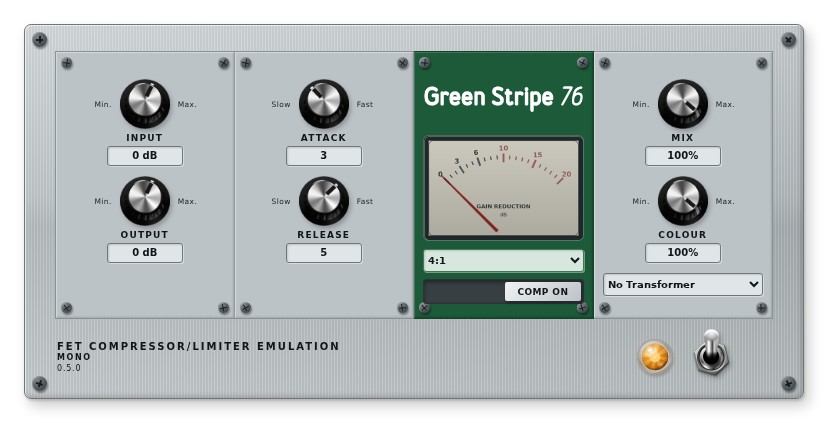
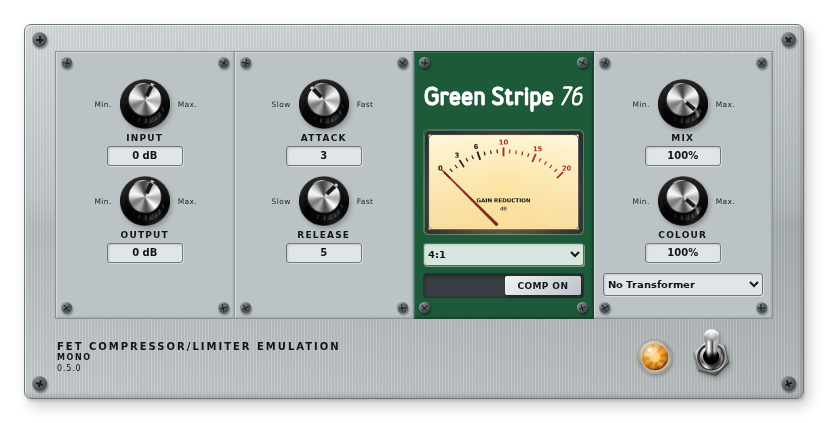
fix: MOD-GUI drag handles and meter layout

Changed region(s): [[0.5133, 0.3073, 0.7246, 0.7376]]

diff --git a/lv2/green-stripe-76.lv2/modgui/green-stripe.css b/lv2/green-stripe-76.lv2/modgui/green-stripe.css
@@ -1,7 +1,7 @@
 /* SPDX-License-Identifier: MIT — Green Stripe 76.
    Joined rack plates; upper-left lighting and independently rotated screw slots.
    Supplied aluminium/toggle filmstrips and scaled pilot SVGs.
-   Draggable: top rail, footer plate and bottom rail. MOD owns control interaction/state. */
+   Draggable: full frame ring and footer plate. MOD owns control interaction/state. */
 .gs76{{{cns}}} { width:780px; box-sizing:border-box; position:relative; color:#10161a; font:13px Arial,Helvetica,sans-serif; padding:26px 30px 8px; border:1px solid #6f7679; border-radius:7px;
   background:linear-gradient(135deg,rgba(255,255,255,.12),rgba(0,0,0,.07)),repeating-linear-gradient(90deg,rgba(255,255,255,.09) 0 1px,rgba(0,0,0,.05) 1px 3px),linear-gradient(180deg,#ced4d7 0%,#bcc3c6 46%,#b0b7ba 54%,#c5cbcd 100%);
   box-shadow:5px 7px 14px rgba(0,0,0,.20),1px 2px 3px rgba(0,0,0,.16),inset 1px 1px 1px rgba(255,255,255,.75),inset -2px -2px 5px rgba(0,0,0,.18); }
@@ -47,7 +47,7 @@
 .gs76{{{cns}}} .gs-body-knobs > .gs-control,.gs76{{{cns}}} .gs-body-knobs > .gs-field { margin:0; }
 .gs76{{{cns}}} .gs-body-knobs > .gs-field { display:flex; }
 /* Engine bay: VU meter on top, ratio and COMP beneath; light from upper left. */
-.gs76{{{cns}}} .gs-body-engine { display:flex; flex-direction:column; align-items:center; justify-content:center; gap:8px; padding-top:64px; }
+.gs76{{{cns}}} .gs-body-engine { display:flex; flex-direction:column; align-items:center; justify-content:center; gap:8px; padding-top:64px; transform:translateY(-6px); }
 .gs76{{{cns}}} .gs-vuwrap { position:relative; width:100%; max-width:172px; height:0; padding-bottom:66.1538%; }
 .gs76{{{cns}}} .gs-vu { position:absolute; inset:0; width:100%; height:100%; display:block; }
 .gs76{{{cns}}} .gs-vu-on { opacity:0; transition:opacity 60ms linear; }
@@ -112,11 +112,11 @@
    30px sides, 8px bottom) without covering bays, footer or the power column;
    the plate makes the footer label draggable as well. */
 .gs76{{{cns}}} .mod-drag-handle.gs-drag { position:absolute; z-index:1; cursor:move; }
-.gs76{{{cns}}} .mod-drag-handle.gs-drag.gs-drag-top { top:0; left:0; right:0; height:26px; }
-.gs76{{{cns}}} .mod-drag-handle.gs-drag.gs-drag-left { top:26px; bottom:9px; left:0; width:30px; height:auto; }
-.gs76{{{cns}}} .mod-drag-handle.gs-drag.gs-drag-right { top:26px; bottom:9px; right:0; width:30px; height:auto; }
+.gs76{{{cns}}} .mod-drag-handle.gs-drag.gs-drag-top { top:0; right:0; bottom:auto; left:0; height:26px; }
+.gs76{{{cns}}} .mod-drag-handle.gs-drag.gs-drag-left { top:26px; right:auto; bottom:9px; left:0; width:30px; height:auto; }
+.gs76{{{cns}}} .mod-drag-handle.gs-drag.gs-drag-right { top:26px; right:0; bottom:9px; left:auto; width:30px; height:auto; }
 .gs76{{{cns}}} .mod-drag-handle.gs-drag.gs-drag-bottom { top:auto; bottom:0; left:0; right:0; height:9px; }
-.gs76{{{cns}}} .gs-plate.gs-drag-foot { cursor:move; touch-action:none; }
+.gs76{{{cns}}} .gs-plate.gs-drag-foot { position:relative; top:auto; right:auto; bottom:auto; left:auto; z-index:auto; cursor:move; touch-action:none; }
 /* Pedalboard zooms on drag-handle clicks (event.target must carry
    mod-drag-handle); children pass clicks through to the plate itself. */
 .gs76{{{cns}}} .gs-plate b, .gs76{{{cns}}} .gs-plate span { pointer-events:none; }

diff --git a/lv2/green-stripe-76.lv2/modgui/icon-mono.html b/lv2/green-stripe-76.lv2/modgui/icon-mono.html
@@ -5,8 +5,8 @@
      Unlabelled bypass beside the amber pilot. Light from upper left.
      Drag handles: full frame ring (top/left/right/bottom rails), footer plate.
      Footer plate carries the variant and the version+revision line.
-     No GR/level meters. -->
-<div class="gs76{{{cns}}}">
+     The ENGINE bay carries the GR VU meter; there are no input meters. -->
+<div class="gs76{{{cns}}} gs76-root">
 <div class="mod-drag-handle gs-drag gs-drag-top" mod-role="drag-handle" title="Paneel verschieben"></div>
 <i class="gs-screw gs-screw-tl" aria-hidden="true"><span class="gs-slot" style="transform:rotate(0deg)"></span></i><i class="gs-screw gs-screw-tr" aria-hidden="true"><span class="gs-slot" style="transform:rotate(45deg)"></span></i><i class="gs-screw gs-screw-bl" aria-hidden="true"><span class="gs-slot" style="transform:rotate(18deg)"></span></i><i class="gs-screw gs-screw-br" aria-hidden="true"><span class="gs-slot" style="transform:rotate(67deg)"></span></i>
 <div class="mod-drag-handle gs-drag gs-drag-left" mod-role="drag-handle" title="Paneel verschieben"></div>

diff --git a/lv2/green-stripe-76.lv2/modgui/icon-stereo.html b/lv2/green-stripe-76.lv2/modgui/icon-stereo.html
@@ -5,8 +5,8 @@
      Unlabelled bypass beside the amber pilot. Light from upper left.
      Drag handles: full frame ring (top/left/right/bottom rails), footer plate.
      Footer plate carries the variant and the version+revision line.
-     No GR/level meters. -->
-<div class="gs76{{{cns}}}">
+     The ENGINE bay carries the GR VU meter; there are no input meters. -->
+<div class="gs76{{{cns}}} gs76-root">
 <div class="mod-drag-handle gs-drag gs-drag-top" mod-role="drag-handle" title="Paneel verschieben"></div>
 <i class="gs-screw gs-screw-tl" aria-hidden="true"><span class="gs-slot" style="transform:rotate(0deg)"></span></i><i class="gs-screw gs-screw-tr" aria-hidden="true"><span class="gs-slot" style="transform:rotate(45deg)"></span></i><i class="gs-screw gs-screw-bl" aria-hidden="true"><span class="gs-slot" style="transform:rotate(18deg)"></span></i><i class="gs-screw gs-screw-br" aria-hidden="true"><span class="gs-slot" style="transform:rotate(67deg)"></span></i>
 <div class="mod-drag-handle gs-drag gs-drag-left" mod-role="drag-handle" title="Paneel verschieben"></div>

diff --git a/lv2/green-stripe-76.lv2/modgui/grmeter.js b/lv2/green-stripe-76.lv2/modgui/grmeter.js
@@ -7,7 +7,7 @@ function (event, funcs) {
     var REST_DEG = -0.0, MAX_DB = 20.0, SWEEP = 90.0;
     function clamp(x, lo, hi) { return x < lo ? lo : (x > hi ? hi : x); }
     function setState(on) {
-        var root = event.icon.find('.gs76');
+        var root = event.icon.find('.gs76-root');
         root.addClass(on ? 'gs-comp-on' : 'gs-comp-off');
         root.removeClass(on ? 'gs-comp-off' : 'gs-comp-on');
     }

diff --git a/tests/test_modgui.py b/tests/test_modgui.py
@@ -18,6 +18,7 @@ def main():
     args = parser.parse_args()
     scripts = args.mod_ui/'html/js'
     source = (scripts/'modgui.js').read_text(encoding='utf-8')
+    grmeter = (ROOT/'lv2/green-stripe-76.lv2/modgui/grmeter.js').read_text(encoding='utf-8')
     # The upstream widget section is self-contained. Use it unchanged, not a
     # reimplementation of its switch/film/bypass state machine.
     widgets = source[source.index('function JqueryClass()'):]
@@ -29,6 +30,13 @@ def main():
             errors = []
             page.on('pageerror', lambda error: errors.append(str(error)))
             page.set_content(page_html(variant), wait_until='load')
+            # Reproduce MOD's global full-panel default for this class. Every
+            # custom handle must override it explicitly; otherwise a footer
+            # handle becomes an invisible overlay across the complete GUI.
+            page.add_style_tag(content='''.mod-pedal .mod-drag-handle {
+              position:absolute; inset:0; z-index:20;
+            }''')
+            page.locator('.gs76-root').evaluate("e => { const wrapper=document.createElement('div'); wrapper.className='mod-pedal'; e.parentNode.insertBefore(wrapper,e); wrapper.appendChild(e); }")
             for name in ('jquery-1.9.1.min.js', 'jquery-ui-1.10.1.custom.min.js', 'jquery.mousewheel.min.js'):
                 page.add_script_tag(path=str(scripts/'lib'/name))
             page.evaluate('window.isSDK=false; window.desktop={pedalboard:{pedalboard:function(){}}};')
@@ -58,6 +66,7 @@ def main():
             for a,b in zip(boxes, boxes[1:]):
                 assert abs(a['x']+a['width']-b['x']) < .01, 'Gap between panels'
             assert page.locator('.gs-brand').evaluate('e => getComputedStyle(e).borderTopWidth') == '0px'
+            assert page.locator('.gs76-root').count() == 1, 'Static JS root hook missing'
             # Engine bay: VU meter between the logo and the ratio/COMP stack;
             # oversampling and stereo link are host-settings-only now.
             assert page.locator('select[mod-port-symbol=oversampling]').count() == 0
@@ -69,20 +78,37 @@ def main():
             brand = page.locator('.gs-brand').bounding_box()
             ratio = page.locator('select[mod-port-symbol=ratio]').bounding_box()
             mode = page.locator('[mod-port-symbol=compression][mod-role=input-control-port]')
+            output_value = page.locator('[mod-role=input-control-value][mod-port-symbol=output]').bounding_box()
+            release_value = page.locator('[mod-role=input-control-value][mod-port-symbol=release]').bounding_box()
+            transformer = page.locator('select[mod-port-symbol=transformer]').bounding_box()
             assert vu_on['y'] >= brand['y'] + brand['height'] - 1, 'VU must sit below the logo'
             assert ratio['y'] > vu_on['y'] + vu_on['height'], 'Ratio belongs below the VU'
             assert mode.bounding_box()['y'] > ratio['y'], 'COMP belongs below the ratio select'
+            assert abs(ratio['y'] - output_value['y']) < .1
+            assert abs(ratio['y'] - release_value['y']) < .1
+            assert abs(mode.bounding_box()['y'] - transformer['y']) < .1
             assert page.locator('.gs-vu-on').evaluate("e => getComputedStyle(e).opacity") == '0'
             assert page.locator('.gs-vu-off').evaluate("e => getComputedStyle(e).opacity") == '1'
             assert page.locator('.gs-vu-needle').evaluate("e => getComputedStyle(e).transform") == 'none'
-            page.evaluate("$('.gs76').addClass('gs-comp-on')")
+            page.evaluate('''source => {
+              const callback=eval('('+source+')');
+              callback({type:'start',icon:$('body'),ports:[
+                {symbol:'compression',value:1},{symbol:'gr_db',value:-10}
+              ]}, {});
+            }''', grmeter)
             page.wait_for_timeout(150)  # opacity transition is 60 ms
             assert page.locator('.gs-vu-on').evaluate("e => getComputedStyle(e).opacity") == '1'
             assert page.locator('.gs-vu-off').evaluate("e => getComputedStyle(e).opacity") == '0'
-            page.evaluate("$('.gs76').removeClass('gs-comp-on').addClass('gs-comp-off')")
+            assert page.locator('.gs-vu-needle').evaluate("e => getComputedStyle(e).transform") != 'none'
+            page.evaluate('''source => {
+              const callback=eval('('+source+')');
+              callback({type:'change',icon:$('body'),symbol:'compression',value:0}, {});
+            }''', grmeter)
             page.wait_for_timeout(150)
+            assert page.locator('.gs76-root').evaluate("e => e.classList.contains('gs-comp-off')")
             assert page.locator('.gs-vu-on').evaluate("e => getComputedStyle(e).opacity") == '0'
-            page.evaluate("$('.gs76').removeClass('gs-comp-off')")
+            assert page.locator('.gs-vu-off').evaluate("e => getComputedStyle(e).opacity") == '1'
+            page.evaluate("$('.gs76-root').removeClass('gs-comp-off')")
             assert mode.locator('span:visible').inner_text() == 'COMP ON'
             mode.click(); assert 'off' in mode.get_attribute('class')
             assert mode.locator('span:visible').inner_text() == 'COMP OFF'
@@ -90,11 +116,11 @@ def main():
             assert page.evaluate("changes.filter(x=>x.symbol==='compression').map(x=>x.value)") == [0,1]
             # Host recall does not emit a parameter write; knob should still drag afterwards.
             page.evaluate("$('[mod-role=input-control-port][mod-port-symbol=input]').controlWidget('setValue',0,true)")
-            before = page.locator('.gs76').bounding_box()
+            before = page.locator('.gs76-root').bounding_box()
             knob = page.locator('[mod-role=input-control-port][mod-port-symbol=input]')
             box = knob.bounding_box(); x=box['x']+25; y=box['y']+25
             page.mouse.move(x,y); page.mouse.down(); page.mouse.move(x,y-35,steps=10); page.mouse.up()
-            after = page.locator('.gs76').bounding_box()
+            after = page.locator('.gs76-root').bounding_box()
             assert before == after, 'Knob drag moved the panel'
             assert page.evaluate("changes.some(x=>x.symbol==='input' && x.value!==0 && Number.isFinite(x.value))")
             bypass = page.locator('.gs-bypass')
@@ -110,7 +136,7 @@ def main():
                 box = handle.bounding_box()
                 page.mouse.move(box['x']+ox, box['y']+oy); page.mouse.down()
                 page.mouse.move(box['x']+ox+30, box['y']+oy+20, steps=5); page.mouse.up()
-                return page.locator('.gs76').bounding_box()
+                return page.locator('.gs76-root').bounding_box()
             n_before = page.evaluate('changes.length')
             last_x = after['x']
             for name, (handle, ox, oy) in {
@@ -125,9 +151,15 @@ def main():
             for name in ('.gs-drag-top', '.gs-drag-left', '.gs-drag-right', '.gs-drag-bottom'):
                 assert page.locator(name).evaluate('e => getComputedStyle(e).cursor') == 'move', \
                     name+' is not a move cursor'
+            panel_box = page.locator('.gs76-root').bounding_box()
+            plate_box = page.locator('.gs-plate').bounding_box()
+            assert plate_box['height'] < panel_box['height'] / 2, \
+                'Footer drag handle expanded over the complete panel'
+            assert plate_box['y'] > boxes[0]['y'] + boxes[0]['height'], \
+                'Footer drag handle escaped the footer layout'
             # Frame rails tile the padding ring; controls and jacks stay uncovered.
-            assert page.evaluate('''() => {
-              const panel=document.querySelector('.gs76').getBoundingClientRect();
+            frame_check = page.evaluate('''() => {
+              const panel=document.querySelector('.gs76-root').getBoundingClientRect();
               const strip=n=>{const b=document.querySelector(n).getBoundingClientRect();
                 let covered=0;
                 for(let x=b.x; x<=b.x+b.width; x+=6)
@@ -147,8 +179,9 @@ def main():
                 .every(c=>{const q=c.getBoundingClientRect();
                   const e=document.elementFromPoint(q.x+q.width/2,q.y+q.height/2);
                   return !e||!e.closest('.gs-drag')});
-              return tiled&&controls;
-            }'''), 'Frame rails must tile the ring and leave controls uncovered'
+              return {ok:tiled&&controls,t,l,r,b,controls,panel:{x:panel.x,y:panel.y,w:panel.width,h:panel.height}};
+            }''')
+            assert frame_check['ok'], 'Frame rails must tile the ring and leave controls uncovered: '+str(frame_check)
             assert page.evaluate('changes.length') == n_before, 'Panel drag emitted a parameter change'
             assert page.evaluate('changes.every(x=>Number.isFinite(x.value))')
             assert not errors, errors

diff --git a/tools/make_vumeter.py b/tools/make_vumeter.py
@@ -40,9 +40,9 @@ BEZEL_EDGE = (111, 118, 121)
 
 # Paletten je Zustand: on = warmes Backlight, off = gedimmt/entsättigt
 PALETTES = {
-    True: dict(face_top=(255, 241, 205), face_bottom=(238, 213, 156),
+    True: dict(face_top=(255, 248, 222), face_bottom=(246, 220, 160),
                ink=(28, 26, 22), tick=(48, 42, 36), red=(176, 54, 48),
-               glow=(255, 214, 130)),
+               glow=(255, 224, 142)),
     False: dict(face_top=(203, 200, 189), face_bottom=(173, 170, 159),
                 ink=(58, 60, 63), tick=(82, 84, 87), red=(148, 96, 91),
                 glow=None),
@@ -115,7 +115,9 @@ def render(scale_max, lit=True):
         gd = ImageDraw.Draw(glow)
         for step in range(rings, 0, -1):
             rr = (step / rings) * radius * 1.25
-            alpha = int(88 * (1.0 - step / rings) ** 2) + 6
+            # Deutliches, aber weiches Glühlampenlicht hinter der Skala:
+            # warmer heller Kern, der zum Rand hin breit ausläuft.
+            alpha = int(150 * (1.0 - step / rings) ** 2) + 8
             gd.ellipse((gx - rr * 1.25, gy - rr, gx + rr * 1.25, gy + rr),
                        fill=pal['glow'] + (alpha,))
         img = Image.alpha_composite(img, glow)

diff --git a/tools/generate.py b/tools/generate.py
@@ -148,7 +148,7 @@ function (event, funcs) {
     var REST_DEG = -0.0, MAX_DB = 20.0, SWEEP = 90.0;
     function clamp(x, lo, hi) { return x < lo ? lo : (x > hi ? hi : x); }
     function setState(on) {
-        var root = event.icon.find('.gs76');
+        var root = event.icon.find('.gs76-root');
         root.addClass(on ? 'gs-comp-on' : 'gs-comp-off');
         root.removeClass(on ? 'gs-comp-off' : 'gs-comp-on');
     }
@@ -324,8 +324,8 @@ def gui_html(stereo, parameters, version):
      Unlabelled bypass beside the amber pilot. Light from upper left.
      Drag handles: full frame ring (top/left/right/bottom rails), footer plate.
      Footer plate carries the variant and the version+revision line.
-     No GR/level meters. -->
-<div class="gs76{{{{{{cns}}}}}}">
+     The ENGINE bay carries the GR VU meter; there are no input meters. -->
+<div class="gs76{{{{{{cns}}}}}} gs76-root">
 <div class="mod-drag-handle gs-drag gs-drag-top" mod-role="drag-handle" title="Paneel verschieben"></div>
 {screws(False, (0, 45, 18, 67))}
 <div class="mod-drag-handle gs-drag gs-drag-left" mod-role="drag-handle" title="Paneel verschieben"></div>

diff --git a/tools/gui_preview.py b/tools/gui_preview.py
@@ -40,4 +40,9 @@ def default_controls(page):
         if (value) value.textContent = p.labels ? p.labels[p.default] : p.default + (p.unit === 'db' ? ' dB' : p.unit === 'pc' ? '%' : '');
       });
       document.querySelector('[mod-role="bypass"]').classList.add('off');
+      const compression = parameters.find(p => p.symbol === 'compression');
+      document.querySelector('.gs76-root').classList.toggle(
+        'gs-comp-on', Boolean(compression && compression.default > 0.5));
+      document.querySelector('.gs76-root').classList.toggle(
+        'gs-comp-off', Boolean(!compression || compression.default <= 0.5));
     }''', parameters)

diff --git a/docs/PROJEKT.md b/docs/PROJEKT.md
@@ -72,6 +72,23 @@ Einstieg, verbindlicher Umfang, aktueller Prüfstand, Übergabeauftrag und Entwi
   (`b`/`span`) sind `pointer-events:none`, damit auch Textklicks zoomen.
   Knopf-Drag löst bewusst kein Zoom aus (Negativkontrolle im Probe-Check
   PASS; Wiki „Creating the GUI" als Rollenreferenz konsultiert).
+  **Gerätebefund und Fix 2026-10-07:** MODs globale Regel
+  `.mod-pedal .mod-drag-handle { position:absolute; inset:0; z-index:20 }`
+  zog die Fußzeilenplatte über das komplette Paneel; beim rechten Rand blieb
+  außerdem das geerbte `left:0` aktiv. Dadurch war das ganze Rechteck
+  verschiebbar und die Fußzeile saß oben. Alle vier Leisten und die Platte
+  setzen nun Position/Kanten explizit zurück. Das Meter-JavaScript suchte
+  zugleich fälschlich `.gs76`, obwohl MOD die Klasse per `cns` suffixiert;
+  ein zusätzlicher statischer Hook `.gs76-root` stellt die COMP-ON/OFF-
+  Faceumschaltung wieder her. Der Browsertest reproduziert jetzt die echten
+  MOD-Basisregeln und führt das reale `grmeter.js` aus: PASS; erneute
+  Geräte-Sichtprüfung offen.
+  **Layoutnachpflege 2026-10-07:** der komplette ENGINE-Inhalt ist 6 px nach
+  oben gerückt. Ratio fluchtet damit mit den OUTPUT-/RELEASE-Wertefeldern
+  (gemessene Abweichung 0,078 px), COMP mit dem Transformer-Dropdown
+  (0,078 px). `vumeter-on.png` besitzt nun ein helleres warmes Face und einen
+  stärkeren radialen Glühlampen-Glow; der echte JS-Start-/Change-Pfad schaltet
+  bei COMP ON auf dieses Face und bei COMP OFF auf `vumeter-off.png`.
 - **Offene Hauptlinien:** Gerätesichtprüfung GUI + REAPER-/Dwarf-Abnahme
   (PROJEKT Übergabe), Serie-B-Isolationsbench (Ursache je Profil für die
   CPU-Reduktion) und danach Entscheidung über die CPU-Reduktionshebel

diff --git a/docs/TODO.md b/docs/TODO.md
@@ -76,9 +76,13 @@ und Grafiken: [MESSERGEBNISSE](MESSERGEBNISSE.md) (generiert).
   danach 21/22 sowie 31/37 und 35/38 im Pedalboard hören, CPU/xruns prüfen.
 - [ ] Reale REAPER-7-Abnahme (Recall/Automation/Host-GR/Fonts) und
   Dwarf-Bedienprüfung (PROJEKT, Abschnitt Übergabe P0/P1).
-- [ ] Neue Drag-Handles am Gerät ziehen: unterer 9-px-Rand und Fußzeilenplatte
-  (Cursor, Panel-Move, keine Reglerberührung). Toolkit-Bindung ist belegt
-  (MESSTECHNIK, Abschnitt MOD-GUI-Browsertest); Lauf mit echter MOD-UI-Quelle offen.
+- [ ] Korrigierte Drag-Handles am Gerät prüfen: MODs globale
+  `.mod-drag-handle`-Regel hatte die Fußzeilenplatte auf das gesamte Paneel
+  aufgezogen und beim rechten Rand `left:0` vererbt. CSS setzt nun alle Kanten
+  der vier Leisten und der Platte explizit zurück; lokaler Test mit den echten
+  MOD-Basisregeln PASS. Gerätelauf offen (Cursor, Panel-Move, keine
+  Reglerberührung). Dabei auch ENGINE-Ausrichtung (Ratio zu OUTPUT/RELEASE,
+  COMP zu Transformer) und helles VU-Face bei COMP ON visuell bestätigen.
 
 ## Offen — Klangmodell und Analyse
 
